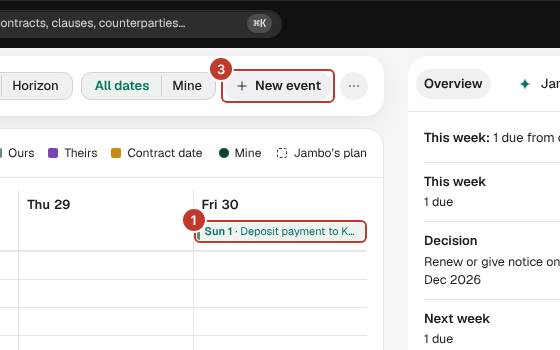
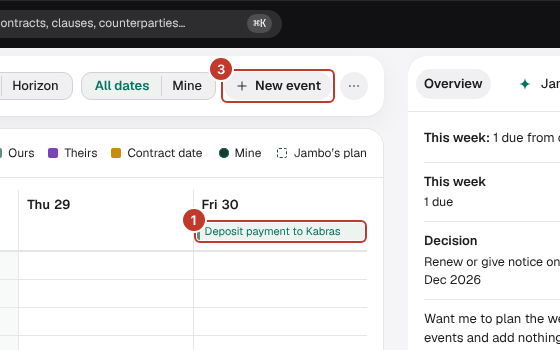
Handbook pictures 5.1-1 and 5.2-1 hold on any day: the deposit falls due on the working week's Friday
Claude-Session: https://claude.ai/code/session_016pDMsWJeEoSNzqX3X84dDJ

Changed region(s): [[0.7589, 0.8857, 1.0, 1.0], [0.3643, 0.6286, 0.6375, 0.6857]]

diff --git a/test/handbook-world.js b/test/handbook-world.js
@@ -16,6 +16,14 @@ const CAP = 'Is our liability capped, and at what?';
 function handbookContracts(){
   const cs = navContracts();
   const a2 = cs.find(c => c.id === 'MK-A2');
+  /* THIS WEEK, WHATEVER THE DAY (28 Oct 2026: "in five days" left this week on a Wednesday, and 5.1-1's This week
+     card and 5.2-1's calendar chip had nothing to show): MK-A1's deposit falls due on the Friday of the working week
+     both pages call this week (obThisMonday, calWeekStart: a Saturday or a Sunday opens the week ahead) */
+  const a1 = cs.find(c => c.id === 'MK-A1');
+  const dep = a1 && (a1.obligations || []).find(o => o.id === 'ob-dep');
+  if (dep) { const d = new Date(); if (d.getDay() === 6 || d.getDay() === 0) d.setDate(d.getDate() + (d.getDay() === 6 ? 2 : 1));
+    d.setDate(d.getDate() + (4 - (d.getDay() + 6) % 7));
+    dep.due = `${d.getFullYear()}-${String(d.getMonth() + 1).padStart(2, '0')}-${String(d.getDate()).padStart(2, '0')}`; }
   const at = new Date(Date.now() - 4 * 864e5).toISOString();
   a2.negotiation = { rounds: [{ n: 1 }], turn: 'us', turnAt: at };
   a2.changes = [{ id: 'hb-ch1', clauseId: 'c1', clauseLabel: '3. Payment', status: 'pending', authorSide: 'counterparty', kind: 'edit', at, before: 'thirty', after: 'sixty' },

diff --git a/BUGLOG.md b/BUGLOG.md
@@ -21833,3 +21833,4 @@ at the moment of the press — not the cause, but the stricter aim, so it stays.
 - Noticed, not fixed: Obligations' Jambo "found" row draws 5 cells in Late's 2-column card if a find ever falls in Late (it drew 3 there before — the same mismatch).
 - Noticed, not fixed: an obligation records no kind beyond dated/event/standing, so the new Kind column can only say Decision or Payment; Report, Delivery and the like would need a recorded kind.
 - 28 Oct 2026 · Noticed, not fixed: handbook-verify's pictures 5.1-1 (`[data-obw-card="w0"]`) and 5.2-1 (`[data-sel="MK-A1"]`) are not found on 28 Oct 2026, red at unmodified main too — the handbook world's obligation dates land by the day it runs (CLAUDE.md: a test whose answer depends on the day is worse than none). Their pictures were kept from 27 Oct.
+- 28 Oct 2026 · Fixed (owner asked): handbook-verify 5.1-1 / 5.2-1 no longer depend on the day — the handbook world puts MK-A1's deposit on the Friday of the working week both Obligations (obThisMonday) and the Calendar (calWeekStart) call this week.
